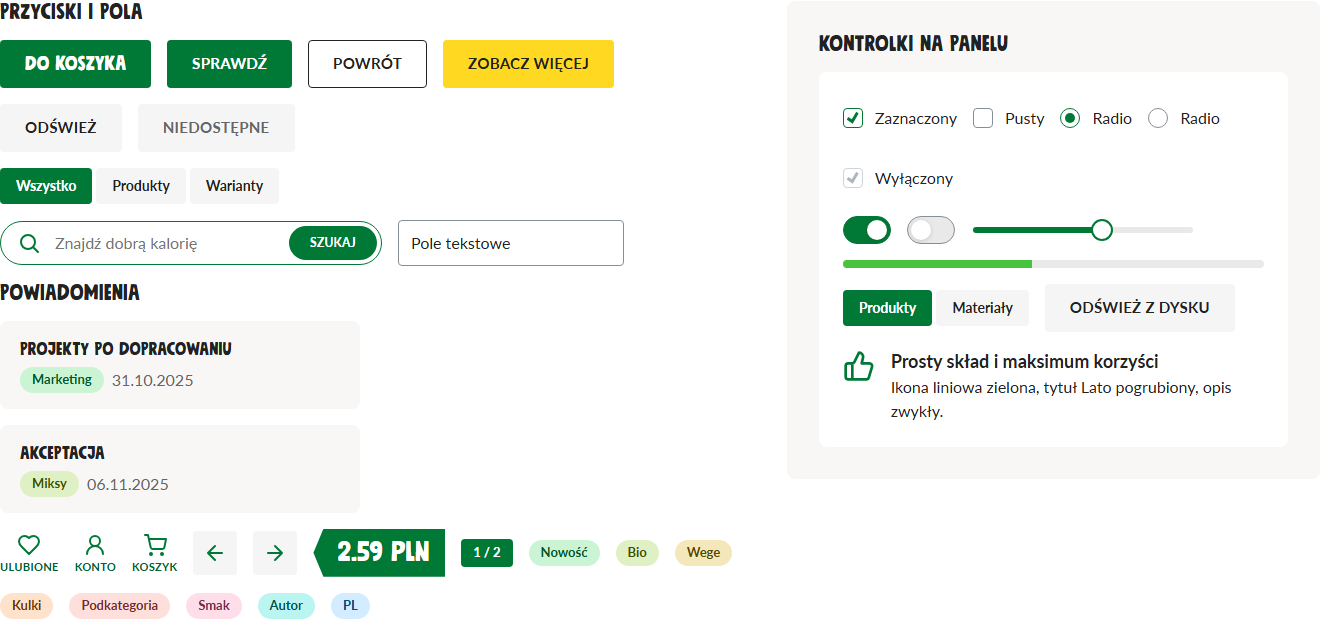
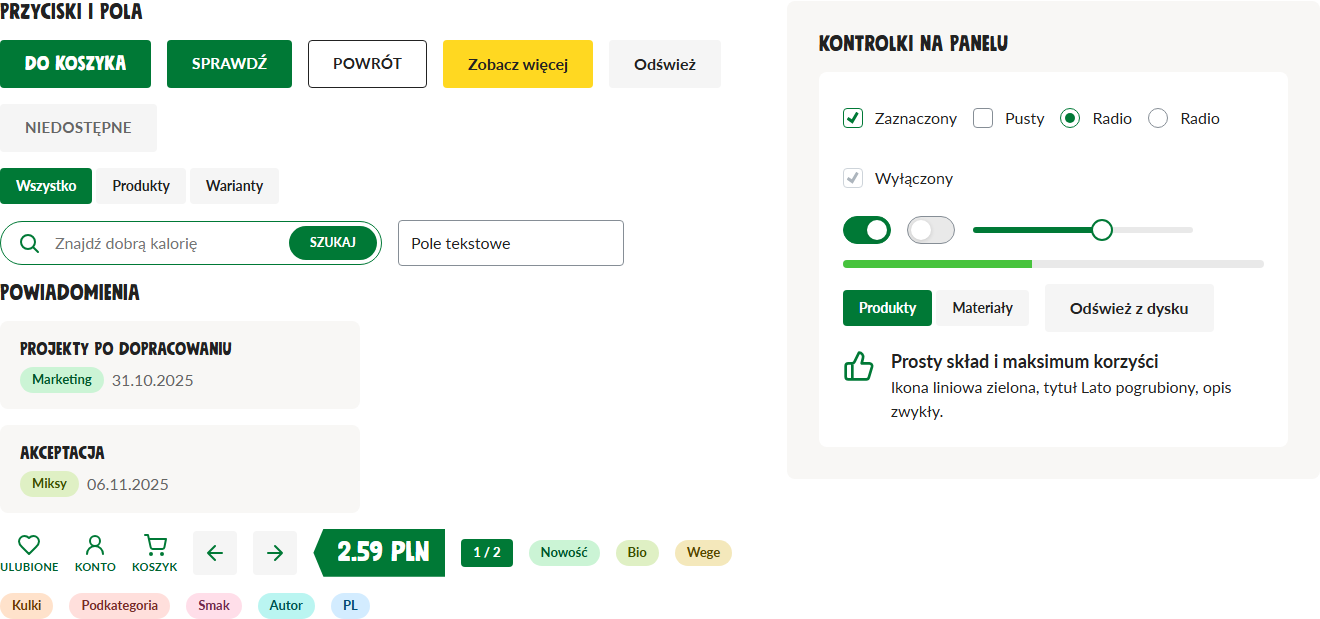
Design system 2.0.6: wersaliki tylko na przycisku głównym i drugorzędnym z obrysem (S18)
Przycisk cichy i żółty w zwykłej wielkości liter, jak w zatwierdzonym wzorcu (okno programu 1.1.5).

diff --git a/design-system/preview/sklep.html b/design-system/preview/sklep.html
@@ -54,6 +54,8 @@
 .dk-btn--block { display: flex; width: 100%; }
 /* S13: przycisk cichy (trzeciorzędny) - samo wypełnienie, bez obrysu; w grupie najwyżej 1 główny i 1 z obrysem, reszta cicha */
 .dk-btn--quiet { background: var(--dk-color-icon-bg); color: var(--dk-color-text); }
+/* S18: wersaliki tylko na przycisku głównym i jednym drugorzędnym z obrysem; cichy i żółty w zwykłej wielkości liter (wzorzec: program 1.1.5) */
+.dk-btn--quiet, .dk-btn--cta { text-transform: none; letter-spacing: 0; font-size: 16px; }
 .dk-panel .dk-btn--quiet, .dk-panel .dk-iconbtn { background: var(--dk-color-surface-2); }
 .dk-card .dk-btn--quiet, .dk-card .dk-iconbtn, .dk-tile .dk-btn--quiet { background: var(--dk-color-icon-bg); }
 .dk-btn--quiet:hover, .dk-panel .dk-btn--quiet:hover, .dk-card .dk-btn--quiet:hover { background: var(--dk-color-brand-soft); }

diff --git a/design-system/tokens/tokens.css b/design-system/tokens/tokens.css
@@ -1,4 +1,4 @@
-/* Design system Dobra Kaloria 2.0.5 (2026-10-06) - PLIK GENEROWANY z tokens.json (scripts/build_tokens.py). Nie edytuj ręcznie. */
+/* Design system Dobra Kaloria 2.0.6 (2026-10-06) - PLIK GENEROWANY z tokens.json (scripts/build_tokens.py). Nie edytuj ręcznie. */
 /* Drabina powierzchni: --dk-color-surface-0 (tło okna) ... -4 (nakładka); tagi: --dk-color-tag-N-bg/-fg/-border. */
 :root, [data-theme="dobra-kaloria"] {
   color-scheme: light;

diff --git a/design-system/themes/dam/dam-theme-dobra-kaloria.css b/design-system/themes/dam/dam-theme-dobra-kaloria.css
@@ -1,4 +1,4 @@
-/* Motyw "Dobra Kaloria" dla DAM - PLIK GENEROWANY (design system Dobra Kaloria 2.0.5).
+/* Motyw "Dobra Kaloria" dla DAM - PLIK GENEROWANY (design system Dobra Kaloria 2.0.6).
    Status: szkic - nie renderowany w DAM. Nakładka na istniejące zmienne --dam-*: komponentów nie przepisujemy,
    motywy light i dark zostają bez zmian. Wdrożenie: themes/dam/README.md. */
 html[data-theme="dobra-kaloria"] {

diff --git a/design-system/tokens/tokens_qt.py b/design-system/tokens/tokens_qt.py
@@ -1,5 +1,5 @@
 # -*- coding: utf-8 -*-
-"""Tokeny Dobra Kaloria 2.0.5 dla Qt/QSS - PLIK GENEROWANY z tokens.json. Użycie: QSS_SZABLON.format(**T).
+"""Tokeny Dobra Kaloria 2.0.6 dla Qt/QSS - PLIK GENEROWANY z tokens.json. Użycie: QSS_SZABLON.format(**T).
 
 T              program (biała kartka) - pełny zestaw: kolory, odstępy, czcionki, drabina, tagi
 T_KREM_JASNY   Dobra Kaloria 2 · krem, jasny   (role + drabina + tagi; nazwy jak w T)

diff --git a/design-system/themes/photo-resizer/dobra_kaloria.py b/design-system/themes/photo-resizer/dobra_kaloria.py
@@ -1,5 +1,5 @@
 # -*- coding: utf-8 -*-
-"""Motyw "Dobra Kaloria" dla Inyfinn Photo Resizer - PLIK GENEROWANY (design system Dobra Kaloria 2.0.5).
+"""Motyw "Dobra Kaloria" dla Inyfinn Photo Resizer - PLIK GENEROWANY (design system Dobra Kaloria 2.0.6).
 Status: szkic - nie renderowany w aplikacji. Wdrożenie: themes/photo-resizer/README.md.
 """
 DOBRA_KALORIA = {

diff --git a/design-system/components.md b/design-system/components.md
@@ -1204,6 +1204,8 @@ Główny: zielony pełny, biały tekst Lato 700 wersalikami, promień 4, hover `
 .dk-btn--block { display: flex; width: 100%; }
 /* S13: przycisk cichy (trzeciorzędny) - samo wypełnienie, bez obrysu; w grupie najwyżej 1 główny i 1 z obrysem, reszta cicha */
 .dk-btn--quiet { background: var(--dk-color-icon-bg); color: var(--dk-color-text); }
+/* S18: wersaliki tylko na przycisku głównym i jednym drugorzędnym z obrysem; cichy i żółty w zwykłej wielkości liter (wzorzec: program 1.1.5) */
+.dk-btn--quiet, .dk-btn--cta { text-transform: none; letter-spacing: 0; font-size: 16px; }
 .dk-panel .dk-btn--quiet, .dk-panel .dk-iconbtn { background: var(--dk-color-surface-2); }
 .dk-card .dk-btn--quiet, .dk-card .dk-iconbtn, .dk-tile .dk-btn--quiet { background: var(--dk-color-icon-bg); }
 .dk-btn--quiet:hover, .dk-panel .dk-btn--quiet:hover, .dk-card .dk-btn--quiet:hover { background: var(--dk-color-brand-soft); }

diff --git a/design-system/tokens/tokens.md b/design-system/tokens/tokens.md
@@ -1,4 +1,4 @@
-# Tokeny Dobra Kaloria 2.0.5
+# Tokeny Dobra Kaloria 2.0.6
 
 PLIK GENEROWANY z `tokens.json` (`scripts/build_tokens.py`). Zasady użycia: `../DESIGN_SYSTEM.md`, `../IDENTYFIKACJA-WIZUALNA.md`.
 
